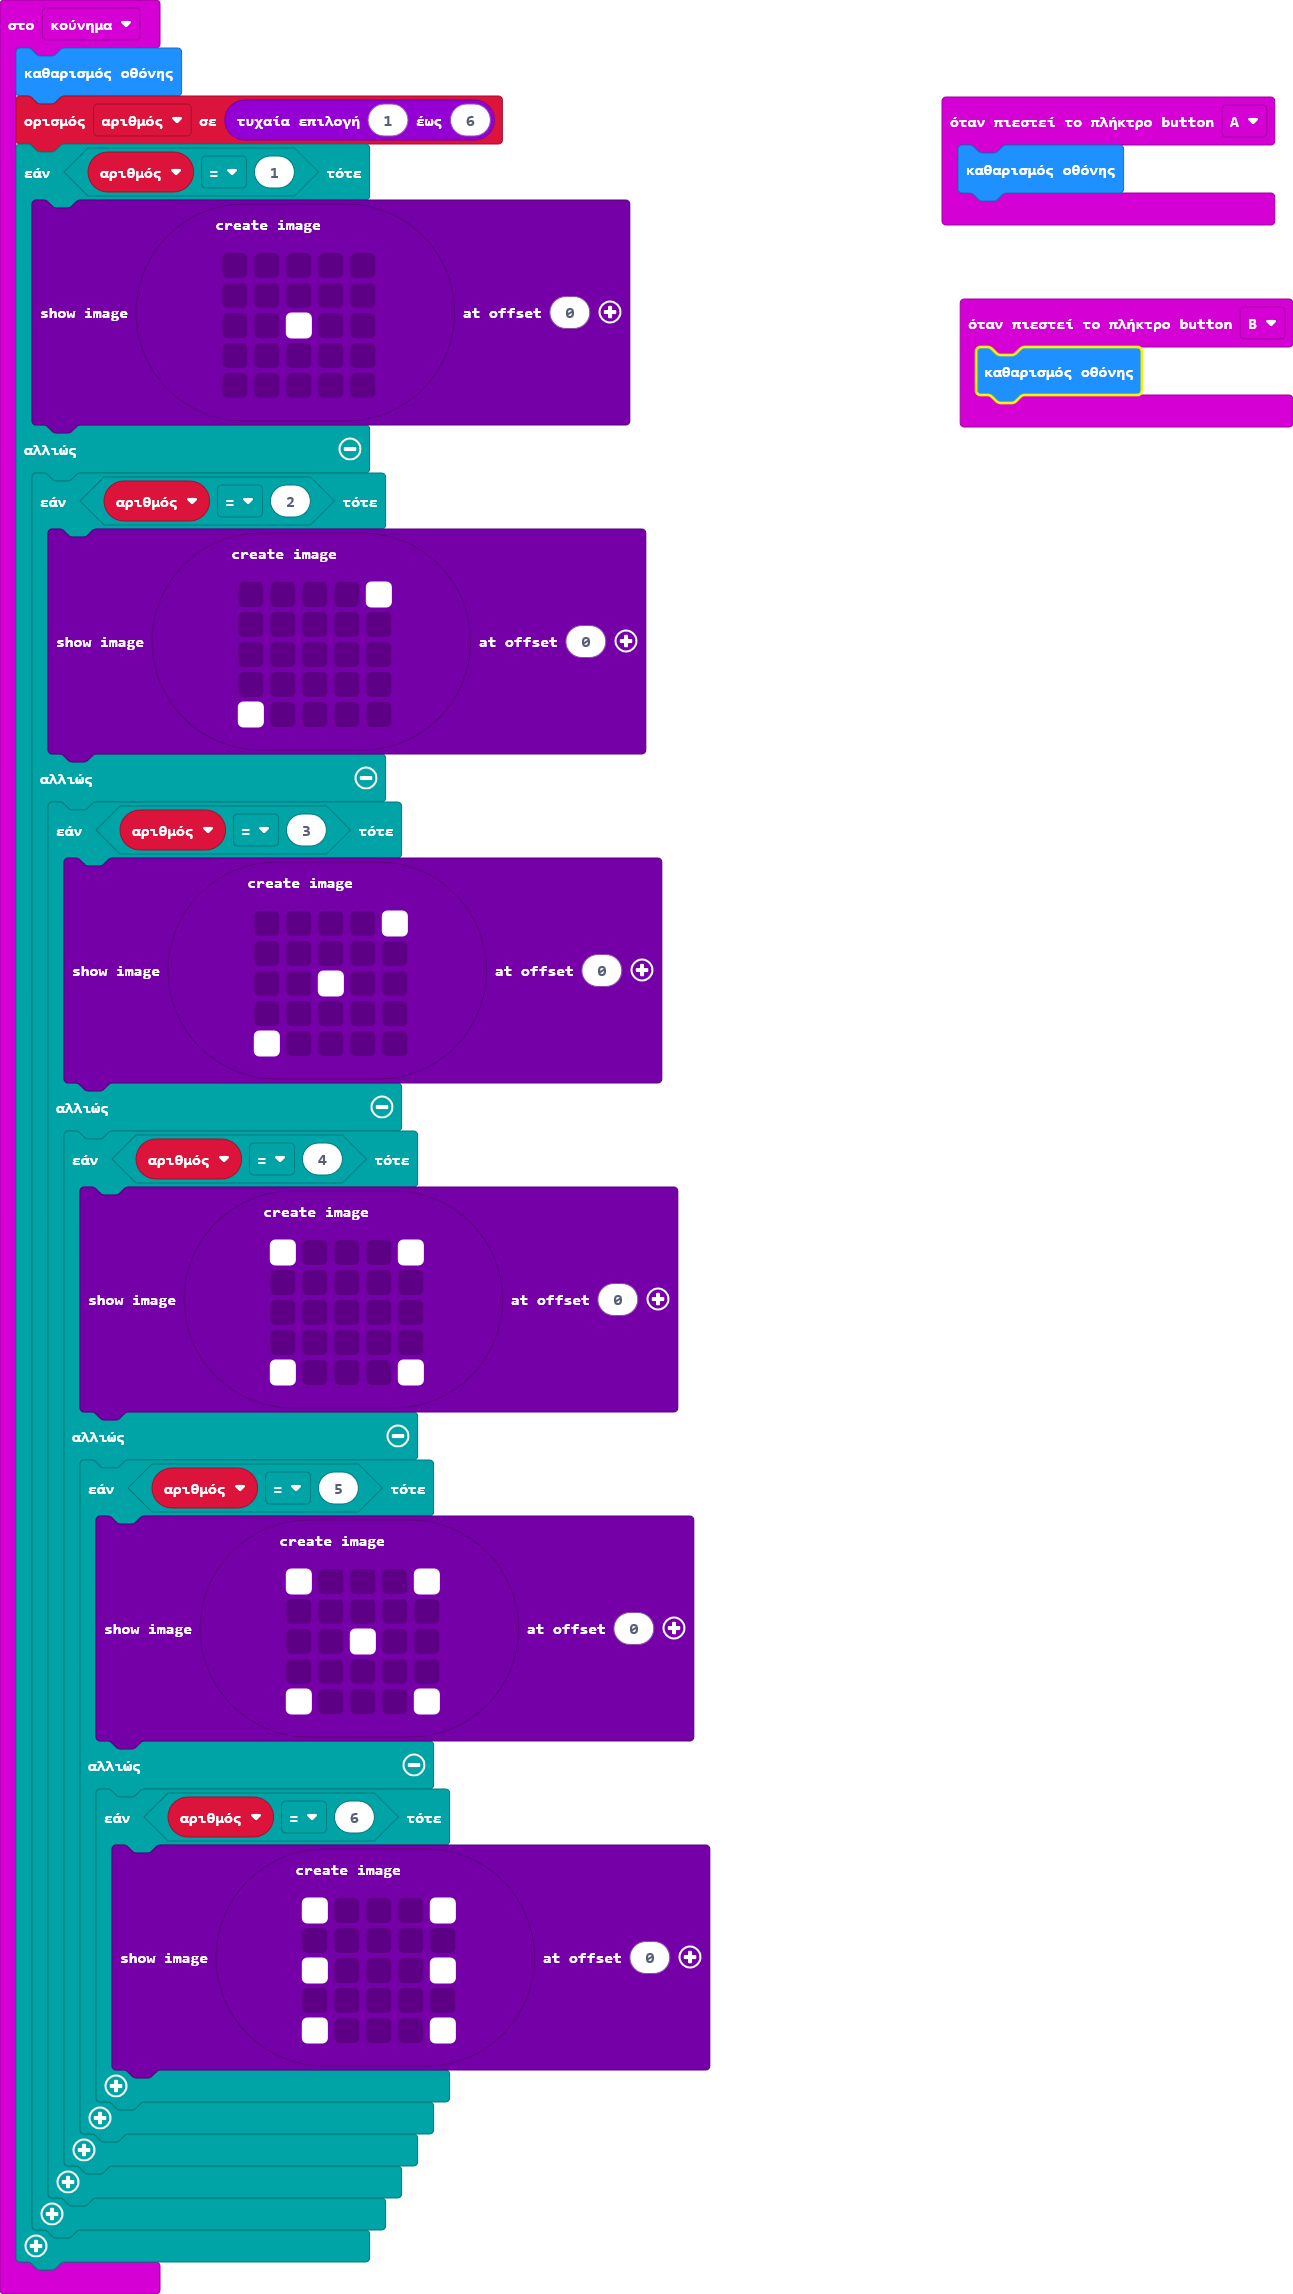
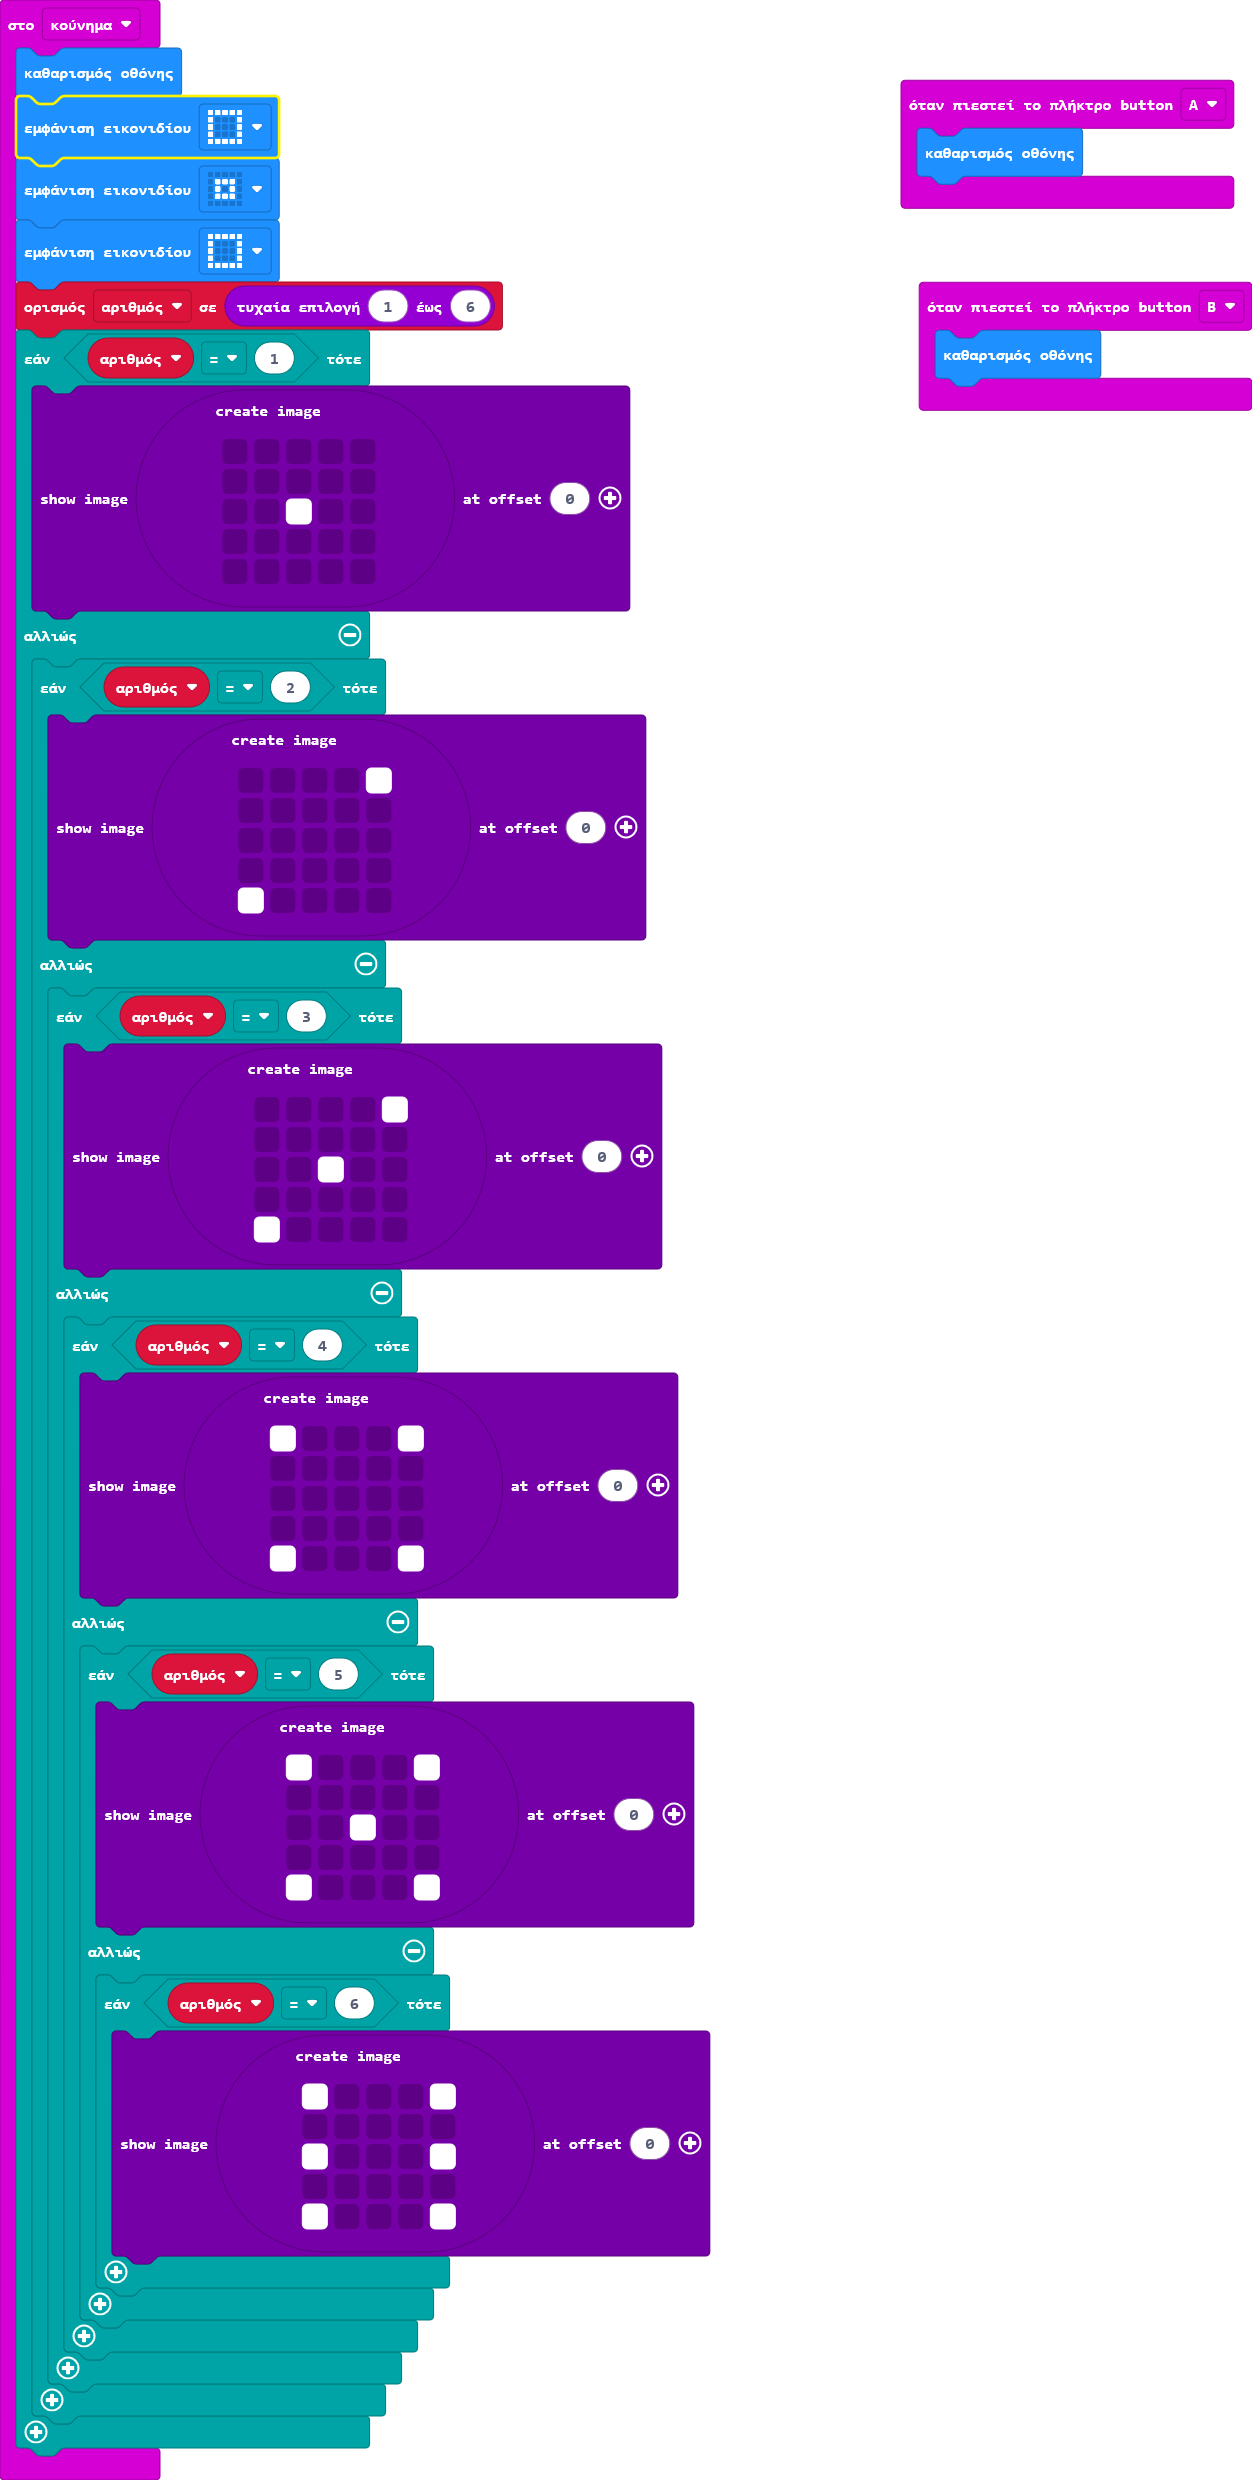
Ενημέρωση main.blocks, main.ts

diff --git a/main.ts b/main.ts
@@ -1,6 +1,9 @@
 let αριθμός = 0
 input.onGesture(Gesture.Shake, function () {
     basic.clearScreen()
+    basic.showIcon(IconNames.Square)
+    basic.showIcon(IconNames.SmallSquare)
+    basic.showIcon(IconNames.Square)
     αριθμός = randint(1, 6)
     if (αριθμός == 1) {
         images.createImage(`
